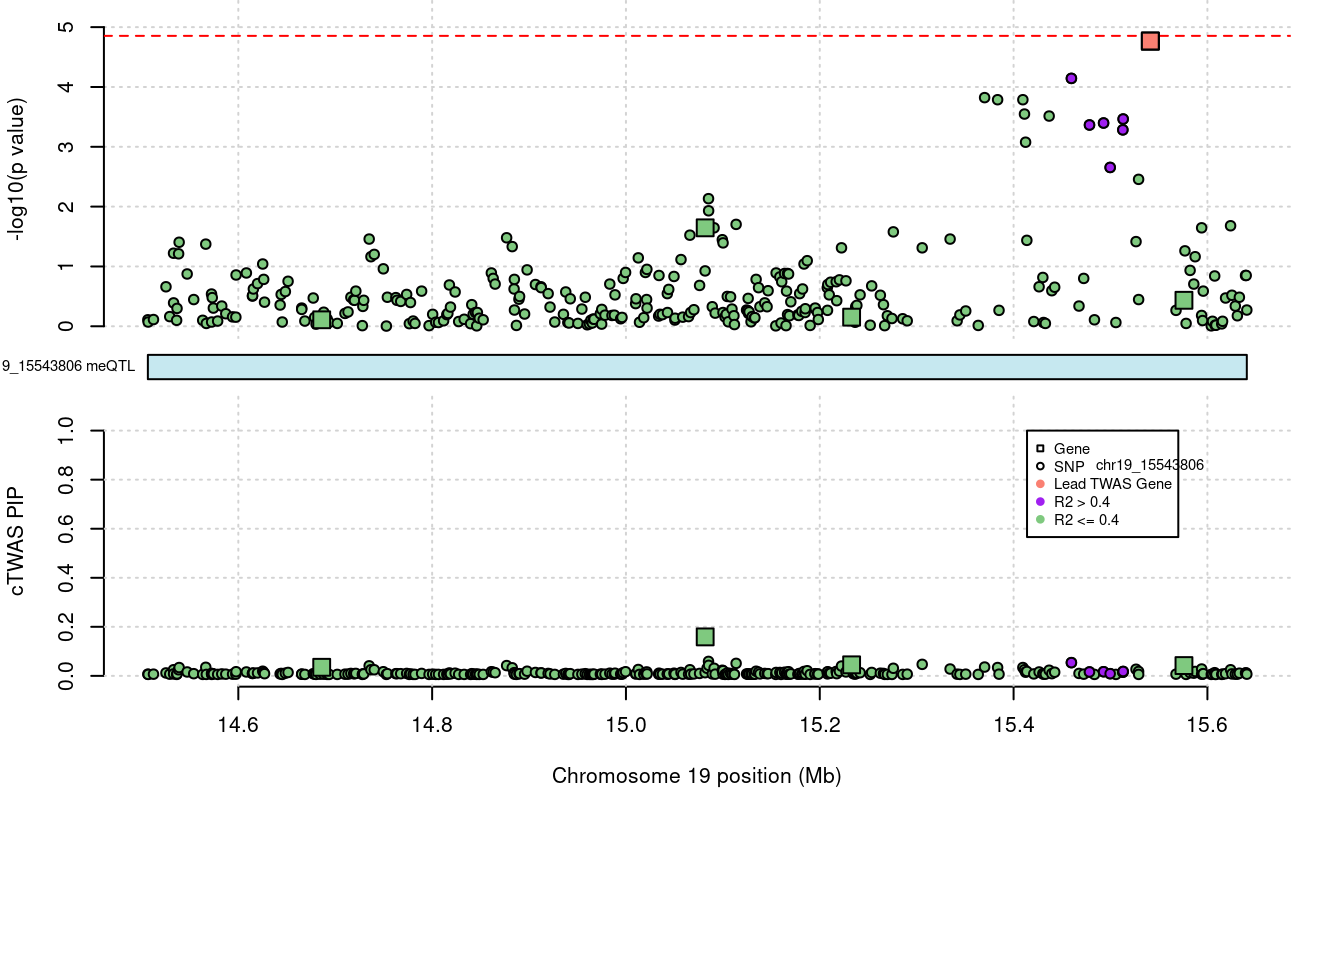
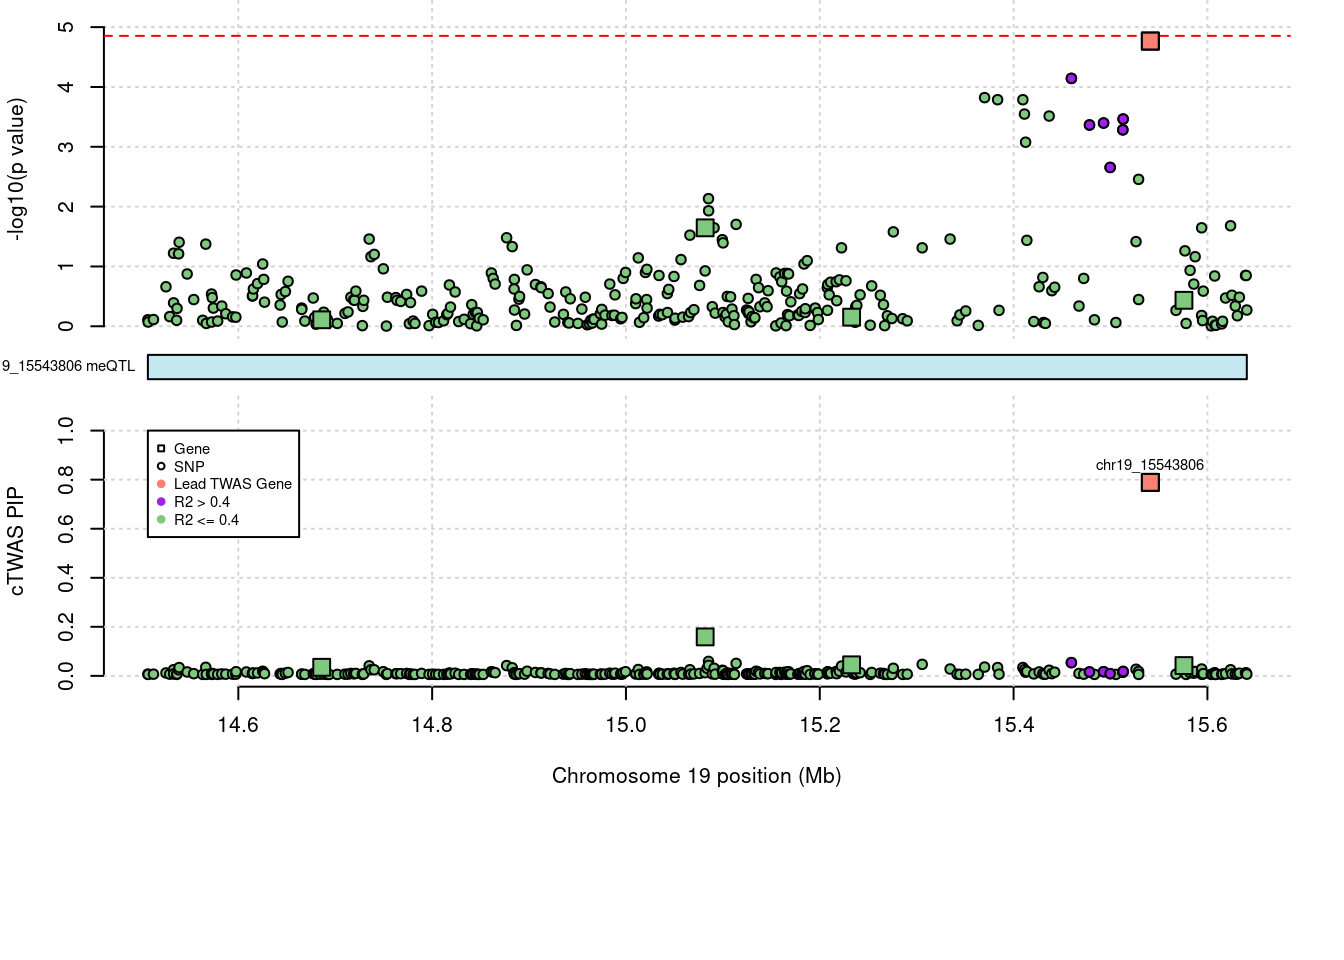
update

Changed region(s): [[0.75, 0.4375, 0.875, 0.5625], [0.0938, 0.4375, 0.2188, 0.5625]]

diff --git a/docs/IBD_ME_CpG_level.html b/docs/IBD_ME_CpG_level.html
@@ -12,7 +12,7 @@
 <meta name="author" content="sheng Qian" />
 
 
-<title>SCZ-ME</title>
+<title>IBD-ME</title>
 
 <script src="site_libs/header-attrs-2.9/header-attrs.js"></script>
 <script src="site_libs/jquery-1.11.3/jquery.min.js"></script>
@@ -357,7 +357,7 @@ div.tocify {
 
 
 
-<h1 class="title toc-ignore">SCZ-ME</h1>
+<h1 class="title toc-ignore">IBD-ME</h1>
 <h4 class="author">sheng Qian</h4>
 <h4 class="date">2021-8-31</h4>
 
@@ -515,16 +515,16 @@ data/UKBB/ebi-a-GCST004131.vcf.gz
 <div class="panel panel-default">
 <div class="panel-heading">
 <p class="panel-title">
-<a data-toggle="collapse" data-parent="#workflowr-checks" href="#strongRepositoryversionstrongahrefhttpsgithubcomsq96cTWASanalysistree4901caf1722e7ede0eb63ea45c03655624429cd0targetblank4901cafa"> <span class="glyphicon glyphicon-ok text-success" aria-hidden="true"></span> <strong>Repository version:</strong> <a href="https://github.com/sq-96/cTWAS_analysis/tree/4901caf1722e7ede0eb63ea45c03655624429cd0" target="_blank">4901caf</a> </a>
+<a data-toggle="collapse" data-parent="#workflowr-checks" href="#strongRepositoryversionstrongahrefhttpsgithubcomsq96cTWASanalysistree34f8900d03704c9d598997aaf8a23b5f83a0c103targetblank34f8900a"> <span class="glyphicon glyphicon-ok text-success" aria-hidden="true"></span> <strong>Repository version:</strong> <a href="https://github.com/sq-96/cTWAS_analysis/tree/34f8900d03704c9d598997aaf8a23b5f83a0c103" target="_blank">34f8900</a> </a>
 </p>
 </div>
[2 lines of base64/hex data omitted]
 <div class="panel-body">
 <p>
 Great! You are using Git for version control. Tracking code development and connecting the code version to the results is critical for reproducibility.
 </p>
 <p>
-The results in this page were generated with repository version <a href="https://github.com/sq-96/cTWAS_analysis/tree/4901caf1722e7ede0eb63ea45c03655624429cd0" target="_blank">4901caf</a>. See the <em>Past versions</em> tab to see a history of the changes made to the R Markdown and HTML files.
+The results in this page were generated with repository version <a href="https://github.com/sq-96/cTWAS_analysis/tree/34f8900d03704c9d598997aaf8a23b5f83a0c103" target="_blank">34f8900</a>. See the <em>Past versions</em> tab to see a history of the changes made to the R Markdown and HTML files.
 </p>
 <p>
 Note that you need to be careful to ensure that all relevant files for the analysis have been committed to Git prior to generating the results (you can use <code>wflow_publish</code> or <code>wflow_git_commit</code>). workflowr only checks the R Markdown file, but you know if there are other scripts or data files that it depends on. Below is the status of the Git repository when the results were generated:
@@ -652,6 +652,40 @@ Message
 Rmd
 </td>
 <td>
+<a href="https://github.com/sq-96/cTWAS_analysis/blob/34f8900d03704c9d598997aaf8a23b5f83a0c103/analysis/IBD_ME_CpG_level.Rmd" target="_blank">34f8900</a>
+</td>
+<td>
+sq-96
+</td>
+<td>
+2022-09-05
+</td>
+<td>
+update
+</td>
+</tr>
+<tr>
+<td>
+html
+</td>
+<td>
+<a href="https://rawcdn.githack.com/sq-96/cTWAS_analysis/34f8900d03704c9d598997aaf8a23b5f83a0c103/docs/IBD_ME_CpG_level.html" target="_blank">34f8900</a>
+</td>
+<td>
+sq-96
+</td>
+<td>
+2022-09-05
+</td>
+<td>
+update
+</td>
+</tr>
+<tr>
+<td>
+Rmd
+</td>
+<td>
 <a href="https://github.com/sq-96/cTWAS_analysis/blob/4901caf1722e7ede0eb63ea45c03655624429cd0/analysis/IBD_ME_CpG_level.Rmd" target="_blank">4901caf</a>
 </td>
 <td>
@@ -697,16 +731,6 @@ update
  21  22 
  50  98 </code></pre>
 <pre><code>[1] 0.1335</code></pre>
-<pre class="r"><code>#add z score to results
-load(paste0(results_dir, &quot;/&quot;, analysis_id, &quot;_expr_z_gene.Rd&quot;))
-ctwas_gene_res$z &lt;- z_gene[ctwas_gene_res$id,]$z
-
-#load(paste0(results_dir, &quot;/&quot;, analysis_id, &quot;_expr_z_snp.Rd&quot;)) #for new version, stored after harmonization
-z_snp &lt;- readRDS(paste0(results_dir, &quot;/&quot;, trait_id, &quot;.RDS&quot;)) #for old version, unharmonized
-
-z_snp &lt;- z_snp[z_snp$id %in% ctwas_snp_res$id,] #subset snps to those included in analysis, note some are duplicated, need to match which allele was used
-ctwas_snp_res$z &lt;- z_snp$z[match(ctwas_snp_res$id, z_snp$id)] #for duplicated snps, this arbitrarily uses the first allele
-ctwas_snp_res$z_flag &lt;- as.numeric(ctwas_snp_res$id %in% z_snp$id[duplicated(z_snp$id)]) #mark the unclear z scores, flag=1</code></pre>
 <p><img src="figure/IBD_ME_CpG_level.Rmd/unnamed-chunk-6-1.png" width="672" style="display: block; margin: auto;" /></p>
 <p>
 <button type="button" class="btn btn-default btn-xs btn-workflowr btn-workflowr-fig" data-toggle="collapse" data-target="#fig-unnamed-chunk-6-1">
@@ -874,7 +898,7 @@ Attaching package: &#39;S4Vectors&#39;</code></pre>
                       rerun_ctwas=F,
                       rerun_load_only=F,
                       label_panel=&quot;both&quot;,
-                      legend_side=&quot;right&quot;,
+                      legend_side=&quot;left&quot;,
                       legend_panel=&quot;cTWAS&quot;)</code></pre>
 <p><img src="figure/IBD_ME_CpG_level.Rmd/unnamed-chunk-12-1.png" width="672" style="display: block; margin: auto;" /></p>
 <p>
@@ -899,6 +923,17 @@ Date
 </tr>
 </thead>
 <tbody>
+<tr>
+<td>
+<a href="https://github.com/sq-96/cTWAS_analysis/blob/34f8900d03704c9d598997aaf8a23b5f83a0c103/docs/figure/IBD_ME_CpG_level.Rmd/unnamed-chunk-12-1.png" target="_blank">34f8900</a>
+</td>
+<td>
+sq-96
+</td>
+<td>
+2022-09-05
+</td>
+</tr>
 <tr>
 <td>
 <a href="https://github.com/sq-96/cTWAS_analysis/blob/4901caf1722e7ede0eb63ea45c03655624429cd0/docs/figure/IBD_ME_CpG_level.Rmd/unnamed-chunk-12-1.png" target="_blank">4901caf</a>
@@ -940,6 +975,17 @@ Date
 <tbody>
 <tr>
 <td>
+<a href="https://github.com/sq-96/cTWAS_analysis/blob/34f8900d03704c9d598997aaf8a23b5f83a0c103/docs/figure/IBD_ME_CpG_level.Rmd/unnamed-chunk-13-1.png" target="_blank">34f8900</a>
+</td>
+<td>
+sq-96
+</td>
+<td>
+2022-09-05
+</td>
+</tr>
+<tr>
+<td>
 <a href="https://github.com/sq-96/cTWAS_analysis/blob/4901caf1722e7ede0eb63ea45c03655624429cd0/docs/figure/IBD_ME_CpG_level.Rmd/unnamed-chunk-13-1.png" target="_blank">4901caf</a>
 </td>
 <td>
@@ -959,7 +1005,7 @@ sq-96
                       rerun_ctwas=F,
                       rerun_load_only=F,
                       label_panel=&quot;both&quot;,
-                      legend_side=&quot;right&quot;,
+                      legend_side=&quot;left&quot;,
                       legend_panel=&quot;cTWAS&quot;)</code></pre>
 <p><img src="figure/IBD_ME_CpG_level.Rmd/unnamed-chunk-14-1.png" width="672" style="display: block; margin: auto;" /></p>
 <p>
@@ -986,6 +1032,17 @@ Date
 <tbody>
 <tr>
 <td>
+<a href="https://github.com/sq-96/cTWAS_analysis/blob/34f8900d03704c9d598997aaf8a23b5f83a0c103/docs/figure/IBD_ME_CpG_level.Rmd/unnamed-chunk-14-1.png" target="_blank">34f8900</a>
+</td>
+<td>
+sq-96
+</td>
+<td>
+2022-09-05
+</td>
+</tr>
+<tr>
+<td>
 <a href="https://github.com/sq-96/cTWAS_analysis/blob/4901caf1722e7ede0eb63ea45c03655624429cd0/docs/figure/IBD_ME_CpG_level.Rmd/unnamed-chunk-14-1.png" target="_blank">4901caf</a>
 </td>
 <td>
@@ -1001,17 +1058,128 @@ sq-96
 </div>
 <pre class="r"><code>locus_plot_gene_track_pub(a, label_pos=&quot;above&quot;)</code></pre>
 <p><img src="figure/IBD_ME_CpG_level.Rmd/unnamed-chunk-15-1.png" width="672" style="display: block; margin: auto;" /></p>
+<p>
+<button type="button" class="btn btn-default btn-xs btn-workflowr btn-workflowr-fig" data-toggle="collapse" data-target="#fig-unnamed-chunk-15-1">
+Past versions of unnamed-chunk-15-1.png
+</button>
+</p>
+<div id="fig-unnamed-chunk-15-1" class="collapse">
+<div class="table-responsive">
+<table class="table table-condensed table-hover">
+<thead>
+<tr>
+<th>
+Version
+</th>
+<th>
+Author
+</th>
+<th>
+Date
+</th>
+</tr>
+</thead>
+<tbody>
+<tr>
+<td>
+<a href="https://github.com/sq-96/cTWAS_analysis/blob/34f8900d03704c9d598997aaf8a23b5f83a0c103/docs/figure/IBD_ME_CpG_level.Rmd/unnamed-chunk-15-1.png" target="_blank">34f8900</a>
+</td>
+<td>
+sq-96
+</td>
+<td>
+2022-09-05
+</td>
+</tr>
+</tbody>
+</table>
+</div>
+</div>
 <pre class="r"><code>a &lt;- locus_plot_final_pub(region_tag=&quot;19_12&quot;, return_table=T,
                       focus=NULL,
                       label_genes=NULL,
                       rerun_ctwas=F,
                       rerun_load_only=F,
                       label_panel=&quot;both&quot;,
-                      legend_side=&quot;right&quot;,
+                      legend_side=&quot;left&quot;,
                       legend_panel=&quot;cTWAS&quot;)</code></pre>
 <p><img src="figure/IBD_ME_CpG_level.Rmd/unnamed-chunk-16-1.png" width="672" style="display: block; margin: auto;" /></p>
+<p>
+<button type="button" class="btn btn-default btn-xs btn-workflowr btn-workflowr-fig" data-toggle="collapse" data-target="#fig-unnamed-chunk-16-1">
+Past versions of unnamed-chunk-16-1.png
+</button>
+</p>
+<div id="fig-unnamed-chunk-16-1" class="collapse">
+<div class="table-responsive">
+<table class="table table-condensed table-hover">
+<thead>
+<tr>
+<th>
+Version
+</th>
+<th>
+Author
+</th>
+<th>
+Date
+</th>
+</tr>
+</thead>
+<tbody>
+<tr>
+<td>
+<a href="https://github.com/sq-96/cTWAS_analysis/blob/34f8900d03704c9d598997aaf8a23b5f83a0c103/docs/figure/IBD_ME_CpG_level.Rmd/unnamed-chunk-16-1.png" target="_blank">34f8900</a>
+</td>
+<td>
+sq-96
+</td>
+<td>
+2022-09-05
+</td>
+</tr>
+</tbody>
+</table>
+</div>
+</div>
 <pre class="r"><code>locus_plot_gene_track_pub(a, label_pos=&quot;above&quot;)</code></pre>
 <p><img src="figure/IBD_ME_CpG_level.Rmd/unnamed-chunk-17-1.png" width="672" style="display: block; margin: auto;" /></p>
+<p>
+<button type="button" class="btn btn-default btn-xs btn-workflowr btn-workflowr-fig" data-toggle="collapse" data-target="#fig-unnamed-chunk-17-1">
+Past versions of unnamed-chunk-17-1.png
+</button>
+</p>
+<div id="fig-unnamed-chunk-17-1" class="collapse">
+<div class="table-responsive">
+<table class="table table-condensed table-hover">
+<thead>
+<tr>
+<th>
+Version
+</th>
+<th>
+Author
+</th>
+<th>
+Date
+</th>
+</tr>
+</thead>
+<tbody>
+<tr>
+<td>
+<a href="https://github.com/sq-96/cTWAS_analysis/blob/34f8900d03704c9d598997aaf8a23b5f83a0c103/docs/figure/IBD_ME_CpG_level.Rmd/unnamed-chunk-17-1.png" target="_blank">34f8900</a>
+</td>
+<td>
+sq-96
+</td>
+<td>
+2022-09-05
+</td>
+</tr>
+</tbody>
+</table>
+</div>
+</div>
 <pre class="r"><code>region_tag = &quot;5_106&quot;
 xlim=NULL
 return_table=T
